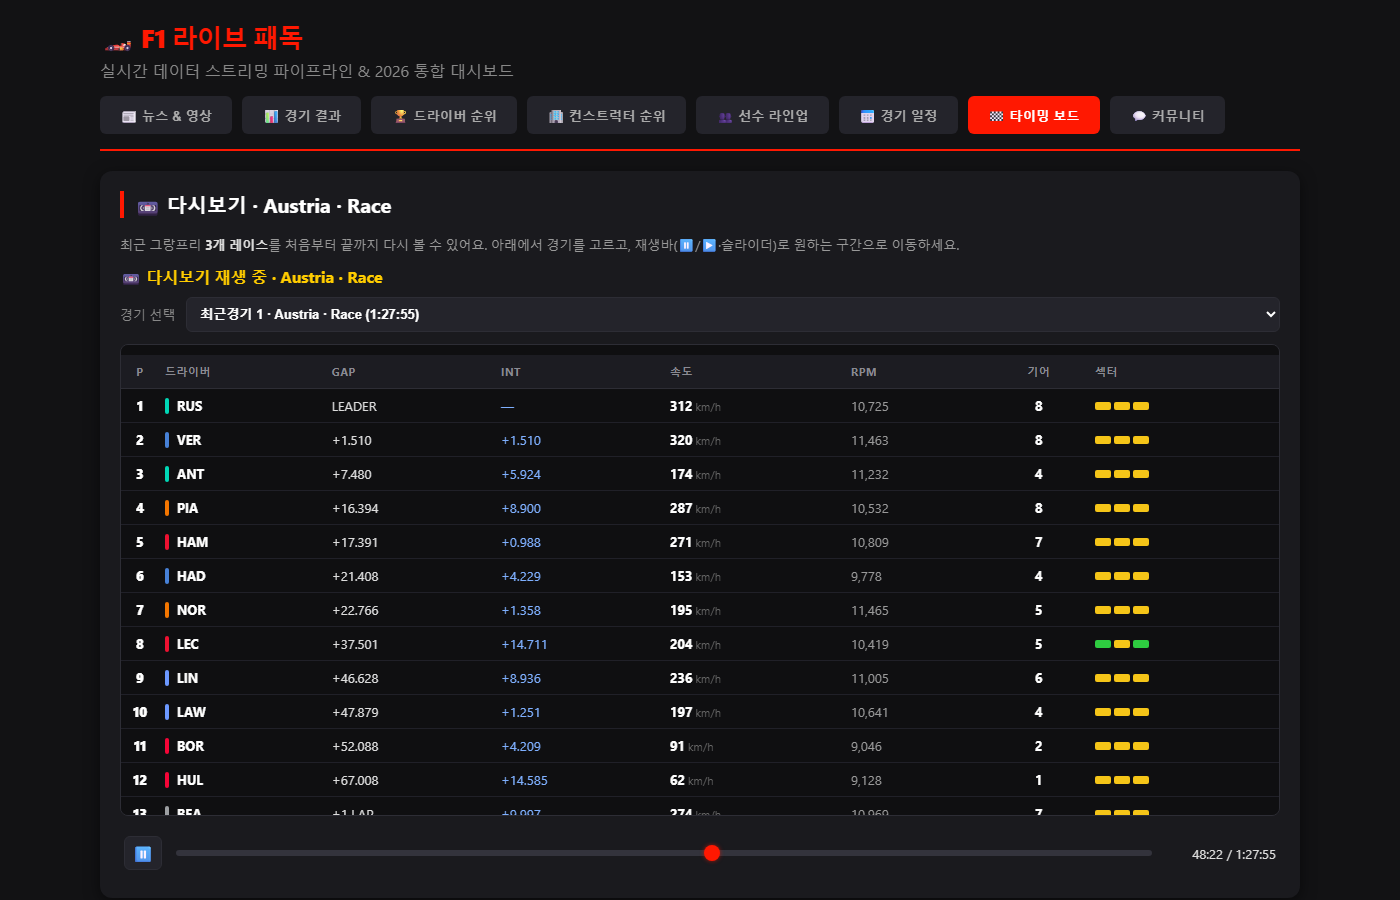
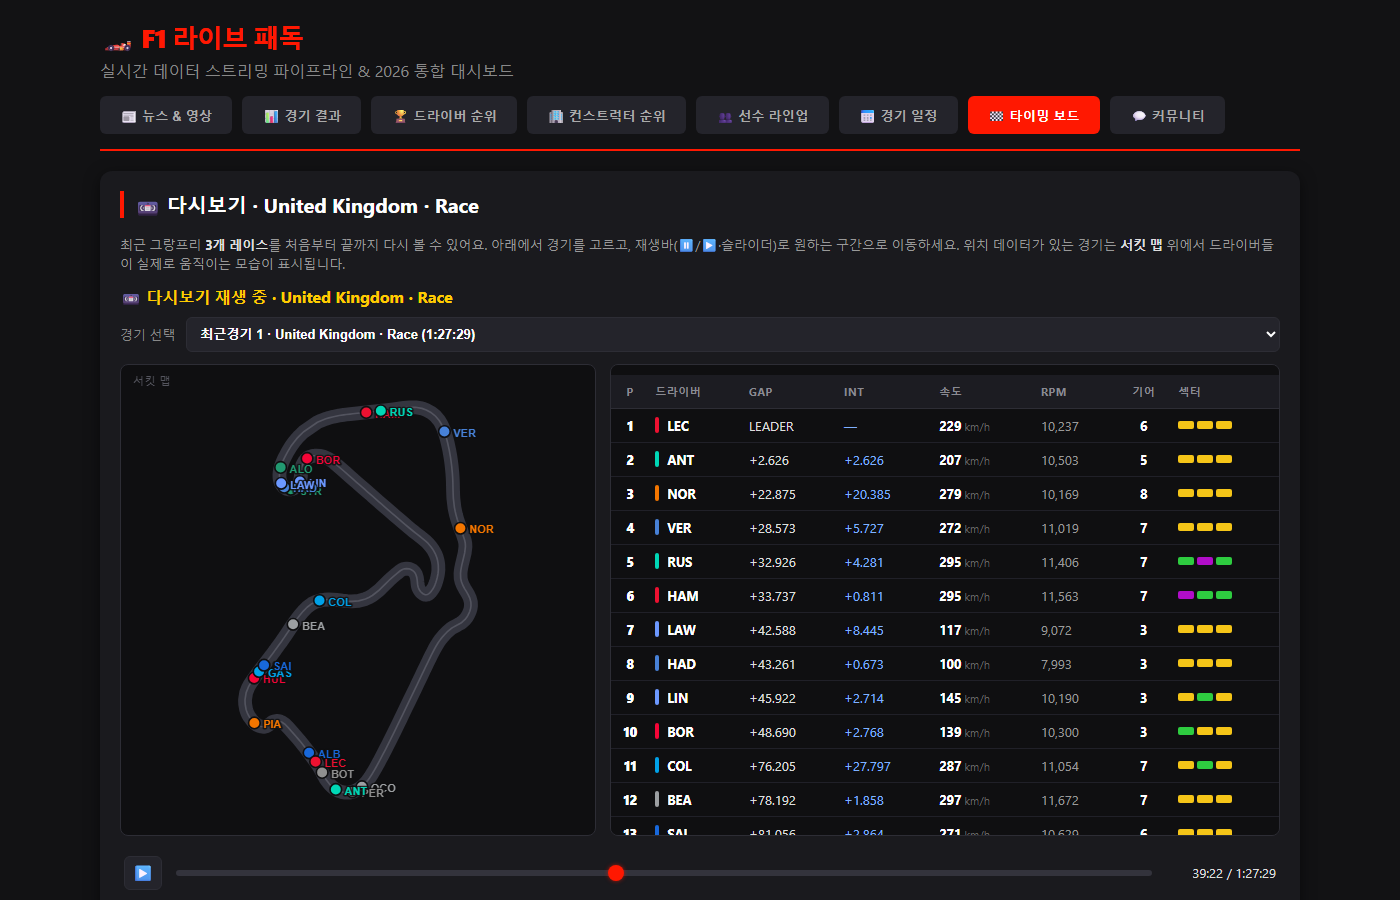
README 갱신: 서킷 맵 기능 설명 추가, 타이밍 보드 스크린샷 교체

diff --git a/README.md b/README.md
@@ -10,7 +10,7 @@ FastAPI + SQLite + 바닐라 JS로 만들었고, 외부 F1 데이터 API(OpenF1,
 
 | 탭 | 내용 |
 |---|---|
-| 🏁 타이밍 보드 | 세션 중엔 **라이브**(3초 주기 WebSocket 방송), 평소엔 최근 3개 GP 풀 레이스 **다시보기**(재생/일시정지/스크럽). 순위·갭·인터벌·속도·RPM·기어·섹터별 퍼플/그린/옐로 표시 |
+| 🏁 타이밍 보드 | 세션 중엔 **라이브**(3초 주기 WebSocket 방송), 평소엔 최근 3개 GP 풀 레이스 **다시보기**(재생/일시정지/스크럽). 순위·갭·인터벌·속도·RPM·기어·섹터별 퍼플/그린/옐로 표시. **서킷 맵** 위에 전 차량의 실시간 위치를 팀 컬러 점으로 표시(프레임 사이 보간으로 부드럽게 이동) |
 | 📊 경기 결과 | 2022~2026 시즌 전 그랑프리의 FP1~3 · 퀄리파잉 · 스프린트 · 레이스 결과 |
 | 🏆 순위/라인업 | 드라이버·컨스트럭터 챔피언십 순위(15분 주기 자동 동기화), 드라이버 프로필 카드 |
 | 📅 경기 일정 | 다음 세션 실시간 카운트다운 + 다가오는 세션 목록 |
@@ -65,6 +65,9 @@ flowchart LR
 
 **다중 폴백 체인**
 OpenF1 무료 티어는 라이브 세션 중 401을 반환합니다. 그래서 라이브는 `OpenF1 폴링 → F1 공식 SignalR 피드(FastF1)` 순으로 시도하고, 보드는 `라이브 → 최근 레이스 다시보기 → 정적 리플레이(바레인 2024)` 순으로 항상 뭔가를 보여줍니다. 일정 데이터도 시작 시 파일로 캐시해서 라이브 중 재시작해도 깨지지 않습니다.
+
+**서킷 맵은 이미지 없이 데이터로 그린다**
+타이밍 보드의 서킷 맵은 트랙 이미지를 쓰지 않습니다. 드라이버 위치는 OpenF1 `location` 좌표를 리플레이 프레임에 포함해 캔버스에 찍고, 서킷 외곽선은 **완주한 랩 하나의 좌표 궤적**으로 리플레이 생성 시 자동으로 만들어 냅니다. 덕분에 어떤 서킷이든 별도 에셋 준비 없이 맵이 그려지고, 좌표가 초당 ~3.7회뿐이라 끊겨 보이는 문제는 프레임 사이 선형 보간으로 해결했습니다. 외곽선 데이터가 없는 라이브 중에는 차들이 지나간 궤적을 누적해 한두 랩이 지나면 트랙 모양이 저절로 드러납니다.
 
 **목적별 캐싱**
 - 뉴스/영상 RSS: 10분 TTL 메모리 캐시 (실패 시 오래된 캐시라도 반환)